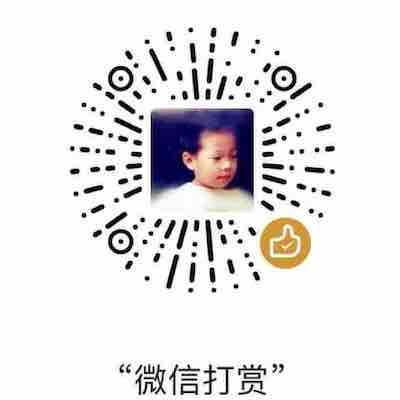
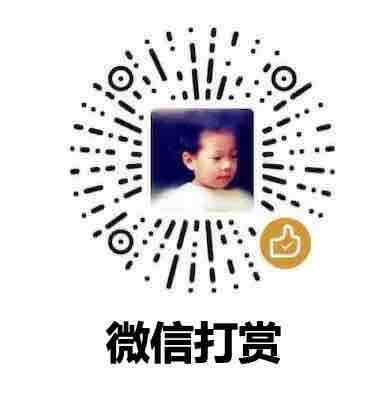
update

Changed region(s): [[0.1535, 0.0606, 0.8593, 0.7576], [0.2455, 0.7879, 0.7366, 1.0], [0.798, 0.2424, 0.8286, 0.2727]]

diff --git a/_includes/disqus.html b/_includes/disqus.html
@@ -3,7 +3,7 @@
   <summary>您的支持将鼓励我继续创作！</summary>
   <center>
     <img src="/public/donate/WeChatQR.jpg" alt="WeChatQR"/>
-    <img src="/public/donate/AliPayQR.jpg" alt="AliPayQR"/>
+    <!-- <img src="/public/donate/AliPayQR.jpg" alt="AliPayQR"/> -->
     <img src="/public/donate/qr_wechat.jpg" alt="qr_wechat"/>
   </center>
   <br>

diff --git a/_posts/[0]语言/swift/2022-05-29-swift.md b/_posts/[0]语言/swift/2022-05-29-swift.md
@@ -314,7 +314,30 @@ print(res.part1,res.part2)
 ```
 
 
-占位符
+占位符 `T` 和泛型
+```swift
+// x 和 y，以及返回都是 T 类型，where T 类型是 Comparable
+
+func max<T>(_ x:T, _ y:T) -> T where T:Comparable{
+    return y >= x ? y : x
+}
+
+// 也可以这样写
+//func max<T:Comparable>(_ x: T,_ y: T) -> T{
+//    return y >= x ? y : x
+//}
+max(1,2)
+max("abc","bbc")
+
+
+
+// 这个 Comparable 是一种协议，你可以定义自己的：
+
+
+```
+
+
+协议
 
 
 
@@ -392,7 +415,7 @@ struct ContentView: View {
 ```
 
 VStack/HStack/ZStack：纵向排列/横向排列/Z轴排列
-- 可以定义左对齐、居中对齐等
+- 可以定义左对齐、居中对齐等 `Vstack(alignment: .leading, spacing: 8)`
 - `List(0 ..< 5)` 用法类似，重复使用
 
 
@@ -403,12 +426,15 @@ VStack/HStack/ZStack：纵向排列/横向排列/Z轴排列
     - `Image(systemName: "photo")`
     - `Image("图片")`
     - `.resizable()` 默认显示原图大小，加这个可以缩放到适配屏幕大小
-    -
+    - `.clipShape(Circle())` 轮廓变成圆的
+    - `.overlay(Circle().stroke(Color.red, lineWidth: 4))` 外接一个边框，方式是覆盖一个东西
+    - `.shadow(radius: 10)` 影子
+
 
 
 如何重复列出元素？
 
-```swiftui
+```swift
 //简单的方式
 List(0 ..< 5) { item in
     HStack{
@@ -543,4 +569,29 @@ struct LandmarkDetail_Previews: PreviewProvider {
         }
     }
 }
+```
+
+### 地图
+
+```swift
+// 主要代码
+import SwiftUI
+import MapKit
+
+struct MapView: View {
+    @State private var region=MKCoordinateRegion(
+        center:CLLocationCoordinate2D(latitude: 34.011_286, longitude: -116.116_868),
+        span: MKCoordinateSpan(latitudeDelta: 0.2, longitudeDelta: 0.2)
+    )
+
+    var body: some View {
+        Map(coordinateRegion: $region)
+    }
+}
+
+
+//如何调用它：
+MapView()
+    .ignoresSafeArea(edges: .top) //上方顶到头
+    .frame(height:300) // 定义高度
 ```

diff --git a/_drafts/软件工程/软件工程.md b/_drafts/软件工程/软件工程.md
@@ -1,0 +1,51 @@
+
+课程笔记：（清华）《软件工程》 刘强老师
+
+## 概述
+
+持续进行的需求管理
+
+|行动|产出|
+|--|--|
+需求获取|会议记录等
+需求分析|分析模型
+需求规格说明|需求规格说明书
+需求验证|已确认的需求规格说明书
+
+
+## 团队建设
+
+1. 进度管理
+    - 每周一晚8:00召开小组讨论会，地点在xxx。主要内容是进展、心得、遇到的问题和风险
+    - 每周三、五团队集中开发
+    - 每次集中开发前矩形10分钟站立会议。报告开发进度、困难。
+    - 周报（或需求管理系统）提交到系统
+2. 团队管理
+    - 记分方式记录成员参与度，每次参加加1分。
+    - 周会应当简洁，每人事先准备。轮流做会议纪要
+3. 团队建设
+    - 鼓励写技术博客
+    - 达到阶段目标时，请大家pizza party
+
+
+
+## 敏捷开发
+
+原因是互联网时代的特点决定的：
+1. 小bug可以容忍，但是时间很重要，早一天发布可能结果完全不同
+2. 客户需求是无法在一开始定下的，往往先有了软件，才有了需求
+3. 即使是已经做完的app，也要经常更新，否则也会失败
+
+
+## 需求提取
+
+5W2H
+
+
+1:card
+- As a 【user】，I want 【function】，so that 【value】
+- As a 【role】，I want 【feature】，because 【reason】
+- As a 【role】，I can 【feature】
+- As a 【role】，I want 【feature】，so that 【reason】
+
+2:conversation
